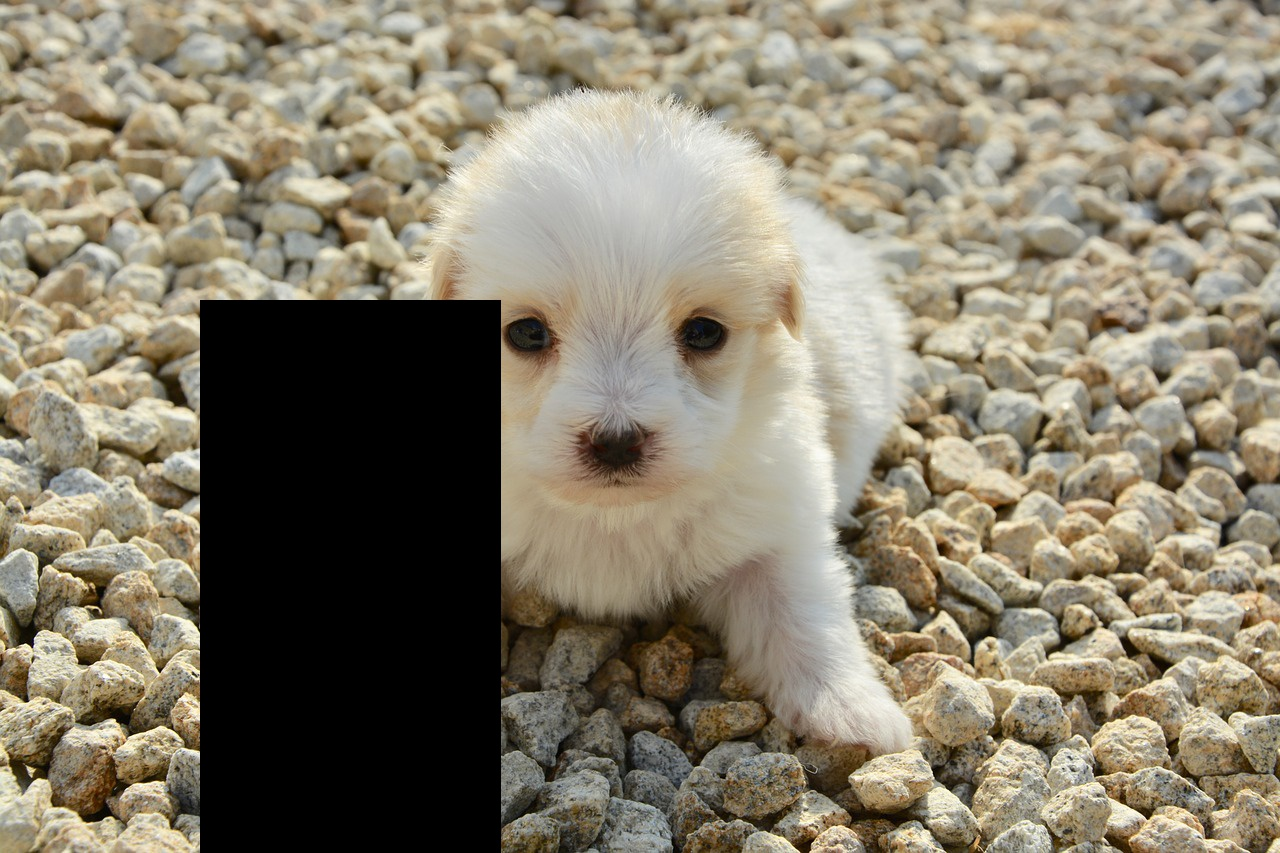
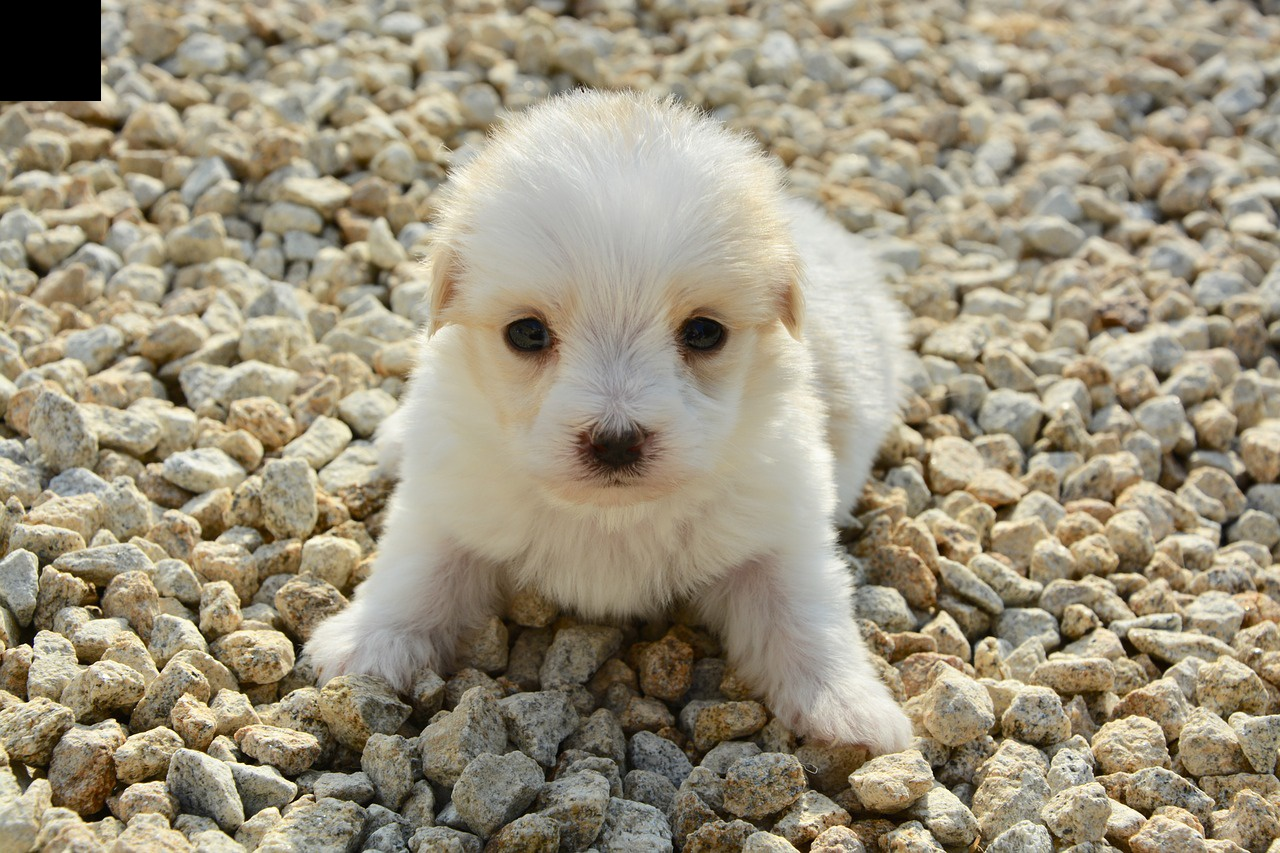
api reponse

Changed region(s): [[0.1562, 0.3353, 0.4062, 1.0], [0.0, 0.0, 0.0938, 0.1219]]

diff --git a/src/main/java/com/etoos/opencv/proc/MaskingImageProcess.java b/src/main/java/com/etoos/opencv/proc/MaskingImageProcess.java
@@ -1,6 +1,9 @@
 package com.etoos.opencv.proc;
 
+import com.etoos.opencv.domain.image.Images;
 import com.etoos.opencv.dto.PointDTO;
+import com.etoos.opencv.repository.ImagesRepository;
+import lombok.RequiredArgsConstructor;
 import org.opencv.core.*;
 import org.opencv.highgui.HighGui;
 import org.opencv.imgcodecs.Imgcodecs;
@@ -10,24 +13,33 @@ import org.springframework.stereotype.Component;
 import java.io.File;
 
 @Component
+@RequiredArgsConstructor
 public class MaskingImageProcess {
 
-    public boolean process(PointDTO pointDTO){
+    private final ImagesRepository imagesRepository;
+
+    public boolean process(PointDTO pointDTO) {
         System.loadLibrary(Core.NATIVE_LIBRARY_NAME);
-        String filePath= pointDTO.getFilePath();
+        String filePath = pointDTO.getFilePath();
 
         Mat source = Imgcodecs.imread(filePath);
         int thickness = Imgproc.FILLED;
-        Imgproc.rectangle(source, new Point(pointDTO.getX(), pointDTO.getY()), new Point(pointDTO.getWidth() ,
-                pointDTO.getHeight()), new Scalar(0,0,0), thickness);
+        Imgproc.rectangle(source, new Point(pointDTO.getX(), pointDTO.getY()), new Point(pointDTO.getWidth(),
+                pointDTO.getHeight()), new Scalar(0, 0, 0), thickness);
 
         String fileDir = "./images/";
-        Imgcodecs.imwrite(fileDir +"masking_" + pointDTO.getFileName(), source);
+        Imgcodecs.imwrite(fileDir + "masking_" + pointDTO.getFileName(), source);
 
         File file = new File(pointDTO.getFilePath());
-        if(file.exists()){
+        if (file.exists()) {
             file.delete();
         }
+
+        imagesRepository.save(Images.builder()
+                .imagePath(fileDir)
+                .originalImageName(pointDTO.getFileName())
+                .imageName("masking_" + pointDTO.getFileName()).build());
+
         System.out.println("Complated.");
         return true;
     }

diff --git a/src/main/java/com/etoos/opencv/controller/ImageRestController.java b/src/main/java/com/etoos/opencv/controller/ImageRestController.java
@@ -2,6 +2,7 @@ package com.etoos.opencv.controller;
 
 
 import com.etoos.opencv.dto.PointDTO;
+import com.etoos.opencv.model.response.CommonResult;
 import com.etoos.opencv.model.response.RestApiResponse;
 import com.etoos.opencv.service.ImageService;
 import io.swagger.annotations.Api;
@@ -35,7 +36,7 @@ public class ImageRestController {
     @CrossOrigin("*")
     @ApiOperation(value = "point masking", notes = "이미지 포인트 마스킹")
     @PostMapping(value = "point", consumes = MediaType.MULTIPART_FORM_DATA_VALUE)
-    public RestApiResponse postImagePoint(
+    public CommonResult postImagePoint(
             @ApiParam(value = "파일") @RequestParam(value = "file", required = true) @Validated final MultipartFile file,
             @ApiParam(value = "마스킹 위치 x 축 px") @RequestParam(value = "x", defaultValue = "0", required = true) @Validated final int x,
             @ApiParam(value = "마스킹 위치 y 축 px") @RequestParam(value = "y", defaultValue = "0", required = true) @Validated final int y,
@@ -48,7 +49,7 @@ public class ImageRestController {
             String filePath = baseDir + "//" + file.getOriginalFilename();
             file.transferTo(new File(filePath));
 
-            return new RestApiResponse<>(imageService.postPointMaskingImage(
+            return imageService.postPointMaskingImage(
                     PointDTO.builder()
                             .x(x)
                             .y(y)
@@ -58,13 +59,13 @@ public class ImageRestController {
                             .fileDir(baseDir)
                             .fileName(file.getOriginalFilename())
                             .build()
-            ));
+            );
 
         } catch (IOException e) {
             e.printStackTrace();
         }
 
-        return new RestApiResponse();
+        return new CommonResult();
 
     }
 }

diff --git a/src/main/java/com/etoos/opencv/service/ResponseService.java b/src/main/java/com/etoos/opencv/service/ResponseService.java
@@ -1,0 +1,58 @@
+package com.etoos.opencv.service;
+
+import com.etoos.opencv.model.response.CommonResult;
+import com.etoos.opencv.model.response.ListResult;
+import com.etoos.opencv.model.response.SingleResult;
+import lombok.AllArgsConstructor;
+import lombok.Getter;
+import org.springframework.stereotype.Service;
+
+import java.util.List;
+
+@Service
+public class ResponseService {
+
+    @Getter
+    @AllArgsConstructor
+    public enum CommonResponse {
+        SUCCESS(0, "성공하였습니다."),
+        FAIL(-1, "실패하였습니다.");
+
+        int code;
+        String msg;
+    }
+
+    public <T> SingleResult<T> getSingleResult(T data){
+        SingleResult<T> result = new SingleResult<>();
+        result.setData(data);
+        setSuccessResult(result);
+        return result;
+    }
+
+    public <T> ListResult<T> setListResult(List<T> list) {
+        ListResult<T> result = new ListResult<>();
+        result.setList(list);
+        setSuccessResult(result);
+        return result;
+    }
+
+    public CommonResult getSuccessResult(){
+        CommonResult result = new CommonResult();
+        setSuccessResult(result);
+        return result;
+    }
+
+    public CommonResult getFailResult(){
+        CommonResult result = new CommonResult();
+        result.setSuccess(false);
+        result.setCode(CommonResponse.FAIL.getCode());
+        result.setMsg(CommonResponse.FAIL.getMsg());
+        return result;
+    }
+
+    private void setSuccessResult(CommonResult result) {
+        result.setSuccess(true);
+        result.setCode(CommonResponse.SUCCESS.getCode());
+        result.setMsg(CommonResponse.SUCCESS.getMsg());
+    }
+ }

diff --git a/src/test/java/com/etoos/opencv/domain/ImagesRepositoryTest.java b/src/test/java/com/etoos/opencv/domain/ImagesRepositoryTest.java
@@ -1,0 +1,49 @@
+package com.etoos.opencv.domain;
+
+import com.etoos.opencv.domain.image.Images;
+import com.etoos.opencv.repository.ImagesRepository;
+import org.junit.After;
+import org.junit.Test;
+import org.junit.runner.RunWith;
+import org.springframework.beans.factory.annotation.Autowired;
+import org.springframework.boot.test.context.SpringBootTest;
+import org.springframework.test.context.junit4.SpringRunner;
+
+import java.util.List;
+
+import static org.hamcrest.CoreMatchers.is;
+import static org.junit.Assert.assertThat;
+
+
+@RunWith(SpringRunner.class)
+@SpringBootTest
+public class ImagesRepositoryTest {
+
+    @Autowired
+    ImagesRepository imagesRepository;
+
+    @After
+    public void cleanup() {
+        imagesRepository.deleteAll();
+    }
+
+    @Test
+    public void 게시글저장_불러오기() {
+        //given
+        imagesRepository.save(Images.builder()
+                .imageName("masking_images.jpg")
+                .imagePath("/root/images/image/")
+                .originalImageName("dog.jpg").build()
+        );
+
+        //when
+        List<Images> imagesList = imagesRepository.findAll();
+
+        //then
+        Images images = imagesList.get(0);
+        assertThat(images.getImageName(), is("masking_images.jpg"));
+
+    }
+}
+
+

diff --git a/src/main/java/com/etoos/opencv/service/ImageService.java b/src/main/java/com/etoos/opencv/service/ImageService.java
@@ -1,6 +1,7 @@
 package com.etoos.opencv.service;
 
 import com.etoos.opencv.dto.PointDTO;
+import com.etoos.opencv.model.response.CommonResult;
 import com.etoos.opencv.proc.MaskingImageProcess;
 import com.etoos.opencv.proc.TemplateImageProcess;
 import lombok.RequiredArgsConstructor;
@@ -12,20 +13,22 @@ public class ImageService {
 
     private final TemplateImageProcess templateImageProcess;
     private final MaskingImageProcess maskingImageProcess;
+    private final ResponseService responseService;
 
-    public String postTemplateMaskingImage(){
+    public CommonResult postTemplateMaskingImage(){
         if(templateImageProcess.process()){
-            return "Complated";
+            return responseService.getSuccessResult();
         } else {
-            return "ERROR";
+            return responseService.getFailResult();
         }
     }
 
-    public String postPointMaskingImage(PointDTO pointDTO){
+    public CommonResult postPointMaskingImage(PointDTO pointDTO){
+
         if(maskingImageProcess.process(pointDTO)){
-            return "Complated";
+            return responseService.getSuccessResult();
         } else {
-            return "ERROR";
+            return responseService.getFailResult();
         }
     }
 }

diff --git a/src/main/java/com/etoos/opencv/domain/image/Images.java b/src/main/java/com/etoos/opencv/domain/image/Images.java
@@ -1,0 +1,34 @@
+package com.etoos.opencv.domain.image;
+
+import lombok.AccessLevel;
+import lombok.Builder;
+import lombok.Getter;
+import lombok.NoArgsConstructor;
+
+import javax.persistence.*;
+
+@NoArgsConstructor(access = AccessLevel.PROTECTED)
+@Getter
+@Entity
+public class Images {
+
+    @Id
+    @GeneratedValue(strategy = GenerationType.IDENTITY)
+    private Long id;
+
+    @Column(length = 500, nullable = false)
+    private String imagePath;
+
+    @Column(length = 500, nullable = false)
+    private String imageName;
+
+    @Column(length = 500, nullable = false)
+    private String originalImageName;
+
+    @Builder
+    public Images (String imagePath, String imageName, String originalImageName) {
+        this.imagePath = imagePath;
+        this.imageName = imageName;
+        this.originalImageName = originalImageName;
+    }
+}

diff --git a/src/main/java/com/etoos/opencv/model/response/CommonResult.java b/src/main/java/com/etoos/opencv/model/response/CommonResult.java
@@ -17,7 +17,5 @@ public class CommonResult {
     @ApiModelProperty(value = "응답 메시지 : true / false")
     protected String msg;
 
-    @ApiModelProperty(value = "응답 메시지 : true / false")
-    private String version = "latest";
 
 }

diff --git a/src/main/java/com/etoos/opencv/repository/ImagesRepository.java b/src/main/java/com/etoos/opencv/repository/ImagesRepository.java
@@ -1,0 +1,7 @@
+package com.etoos.opencv.repository;
+
+import com.etoos.opencv.domain.image.Images;
+import org.springframework.data.jpa.repository.JpaRepository;
+
+public interface ImagesRepository extends JpaRepository<Images, Long> {
+}

diff --git a/src/main/java/com/etoos/opencv/model/response/ListResult.java b/src/main/java/com/etoos/opencv/model/response/ListResult.java
@@ -1,0 +1,12 @@
+package com.etoos.opencv.model.response;
+
+import lombok.Getter;
+import lombok.Setter;
+
+import java.util.List;
+
+@Getter
+@Setter
+public class ListResult<T> extends CommonResult {
+    private List<T> list;
+}

diff --git a/src/main/java/com/etoos/opencv/model/response/SingleResult.java b/src/main/java/com/etoos/opencv/model/response/SingleResult.java
@@ -1,0 +1,10 @@
+package com.etoos.opencv.model.response;
+
+import lombok.Getter;
+import lombok.Setter;
+
+@Getter
+@Setter
+public class SingleResult<T> extends CommonResult {
+    protected T data;
+}
